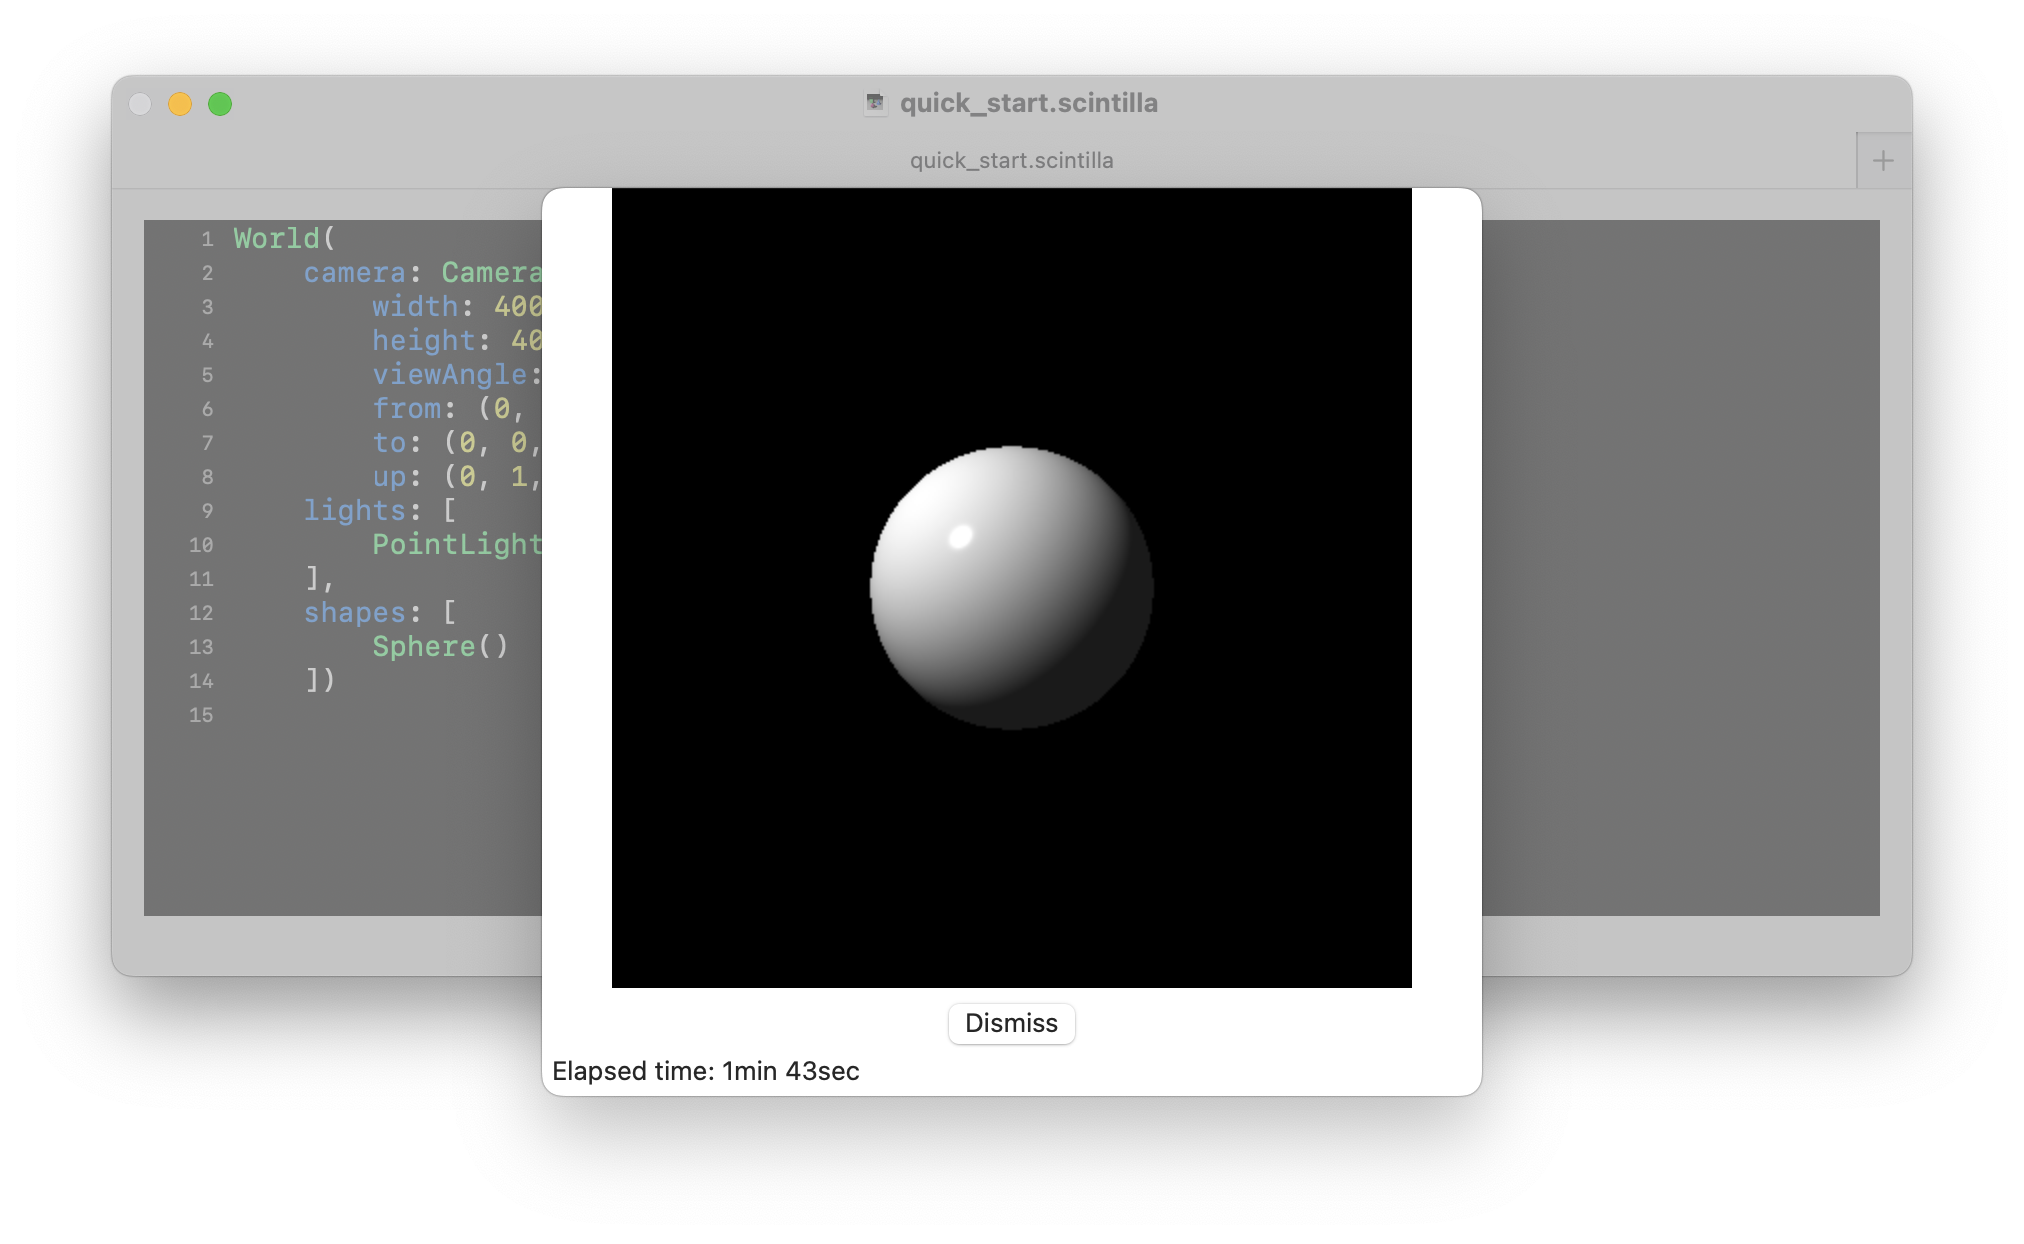
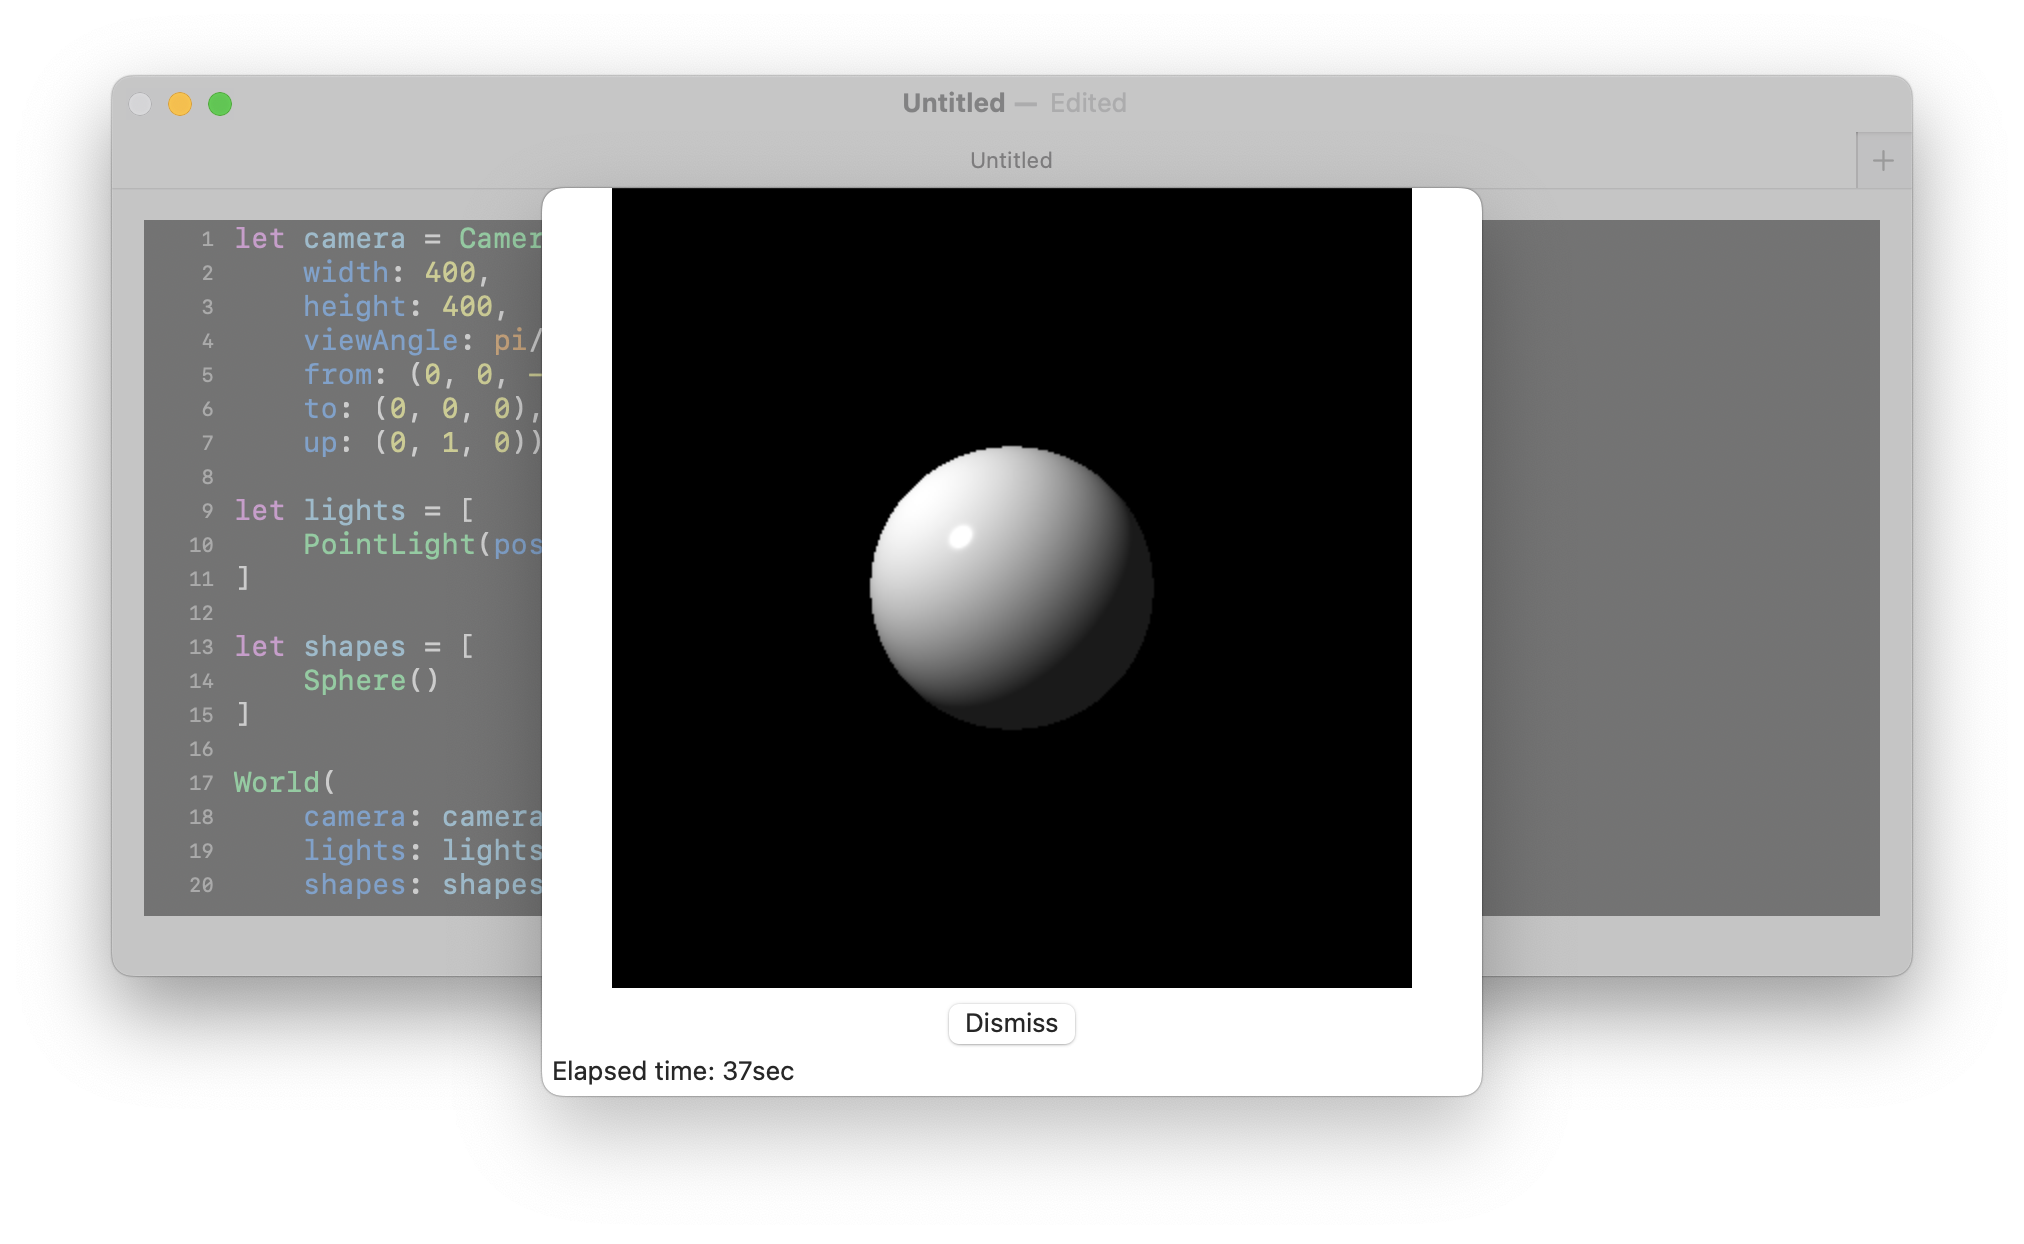
Updated README.

diff --git a/README.md b/README.md
@@ -13,28 +13,38 @@ I _really_ wanted to be able to make something like POV-Ray which is both an edi
 # Quick start
 
 * Open Scintilla
-* Create a new file and add the following code:
+* Click on the button that says New Document to create a new file, and you should see something like this:
+
+![](./images/quick_start.png)
+
+* Fill in the template like the following:
 
 ```swift
+let camera = Camera(
+    width: 400,
+    height: 400,
+    viewAngle: pi/3,
+    from: (0, 0, -5),
+    to: (0, 0, 0),
+    up: (0, 1, 0))
+
+let lights = [
+    PointLight(position: (-10, 10, -10))
+]
+
+let shapes = [
+    Sphere()
+]
+
 World(
-    camera: Camera(
-        width: 400,
-        height: 400,
-        viewAngle: pi/3,
-        from: (0, 0, -5),
-        to: (0, 0, 0),
-        up: (0, 1, 0)),
-    lights: [
-        PointLight(position: (-10, 10, -10))
-    ],
-    shapes: [
-        Sphere()
-    ])
+    camera: camera,
+    lights: lights,
+    shapes: shapes)
 ```
 
 * Go to File... -> Render Scene..., or hit ⌘-R, and wait for the following image to appear:
 
-![](./images/quick_start.png)
+![](./images/rendered.png)
 
 * Note that you can then go to File -> Export Image..., or hit ⌘-E, to save the image to a local .png file.
 
@@ -84,34 +94,7 @@ Scintilla is basically a tiny programming language, where a valid program contai
 
 ... and the final `World` expression is the one that is actually rendered.
 
-`let` statements allow you to assign a value to a variable that can be used in another expression, and often allow you to break up a single large expressions into multiple smaller ones.
-
-For instance, while you can directly inline the construction of all of the objects listed inside a `World` initializer, like the scene in the "Quick start" section above, it can also be expressed like the following:
-
-```swift
-let camera = Camera(
-    width: 600,
-    height: 600,
-    viewAngle: pi/3,
-    from: (0, 0, -5),
-    to: (0, 0, 0),
-    up: (0, 1, 0))
-
-let lights = [
-    PointLight(position: (-10, 10, -10))
-]
-
-let shapes = [
-    Sphere()
-]
-
-World(
-    camera: camera,
-    lights: lights,
-    shapes: shapes)
-```
-
-As you build more complex scenes, you will find using `let` statements immensely easier to compose and reuse objects, and make your Scintilla programs significantly more readable.
+`let` statements allow you to assign a value to a variable that can be used in another expression, and often allow you to break up a single large expressions into multiple smaller ones. While you can directly inline the construction of camera, lights, and shapes inside the `World` initializer, as you build more complex scenes, you will find using `let` statements immensely easier to compose and reuse objects, and make your Scintilla programs significantly more readable.
 
 You can also define your own functions for when you find yourself repeating certain code patterns and you want to centralize that logic. A function declaration has the following structure:
 
